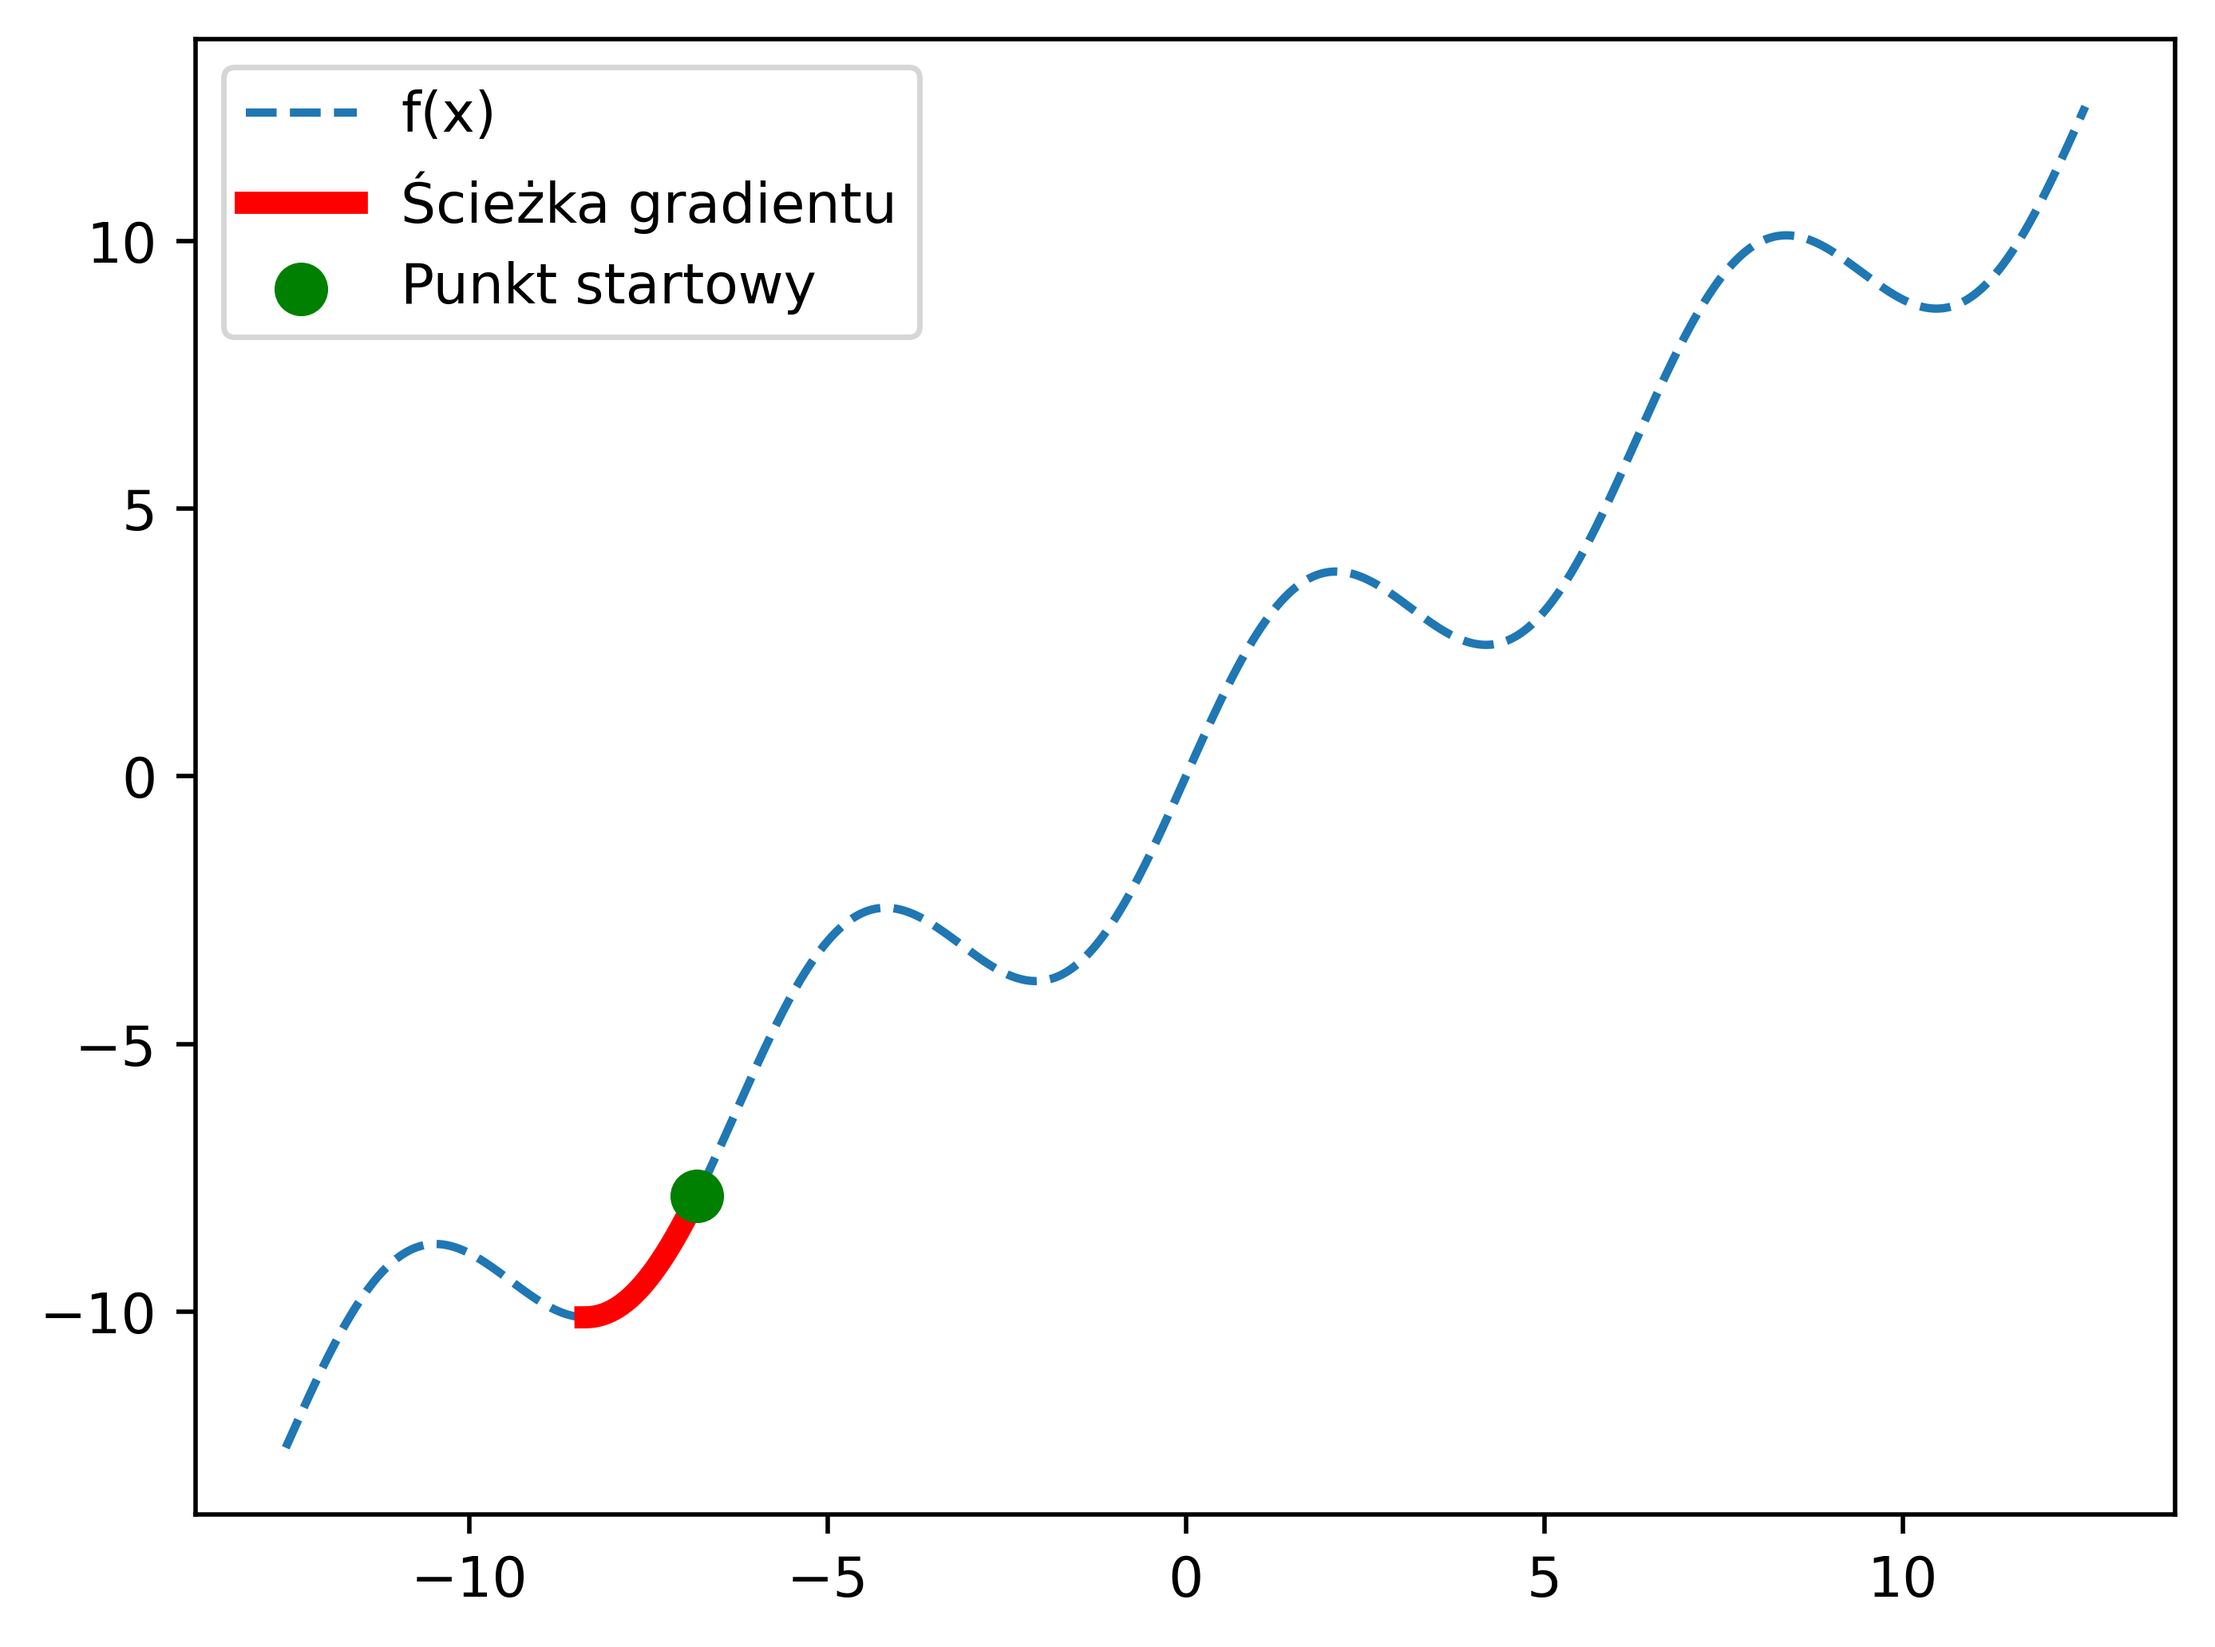
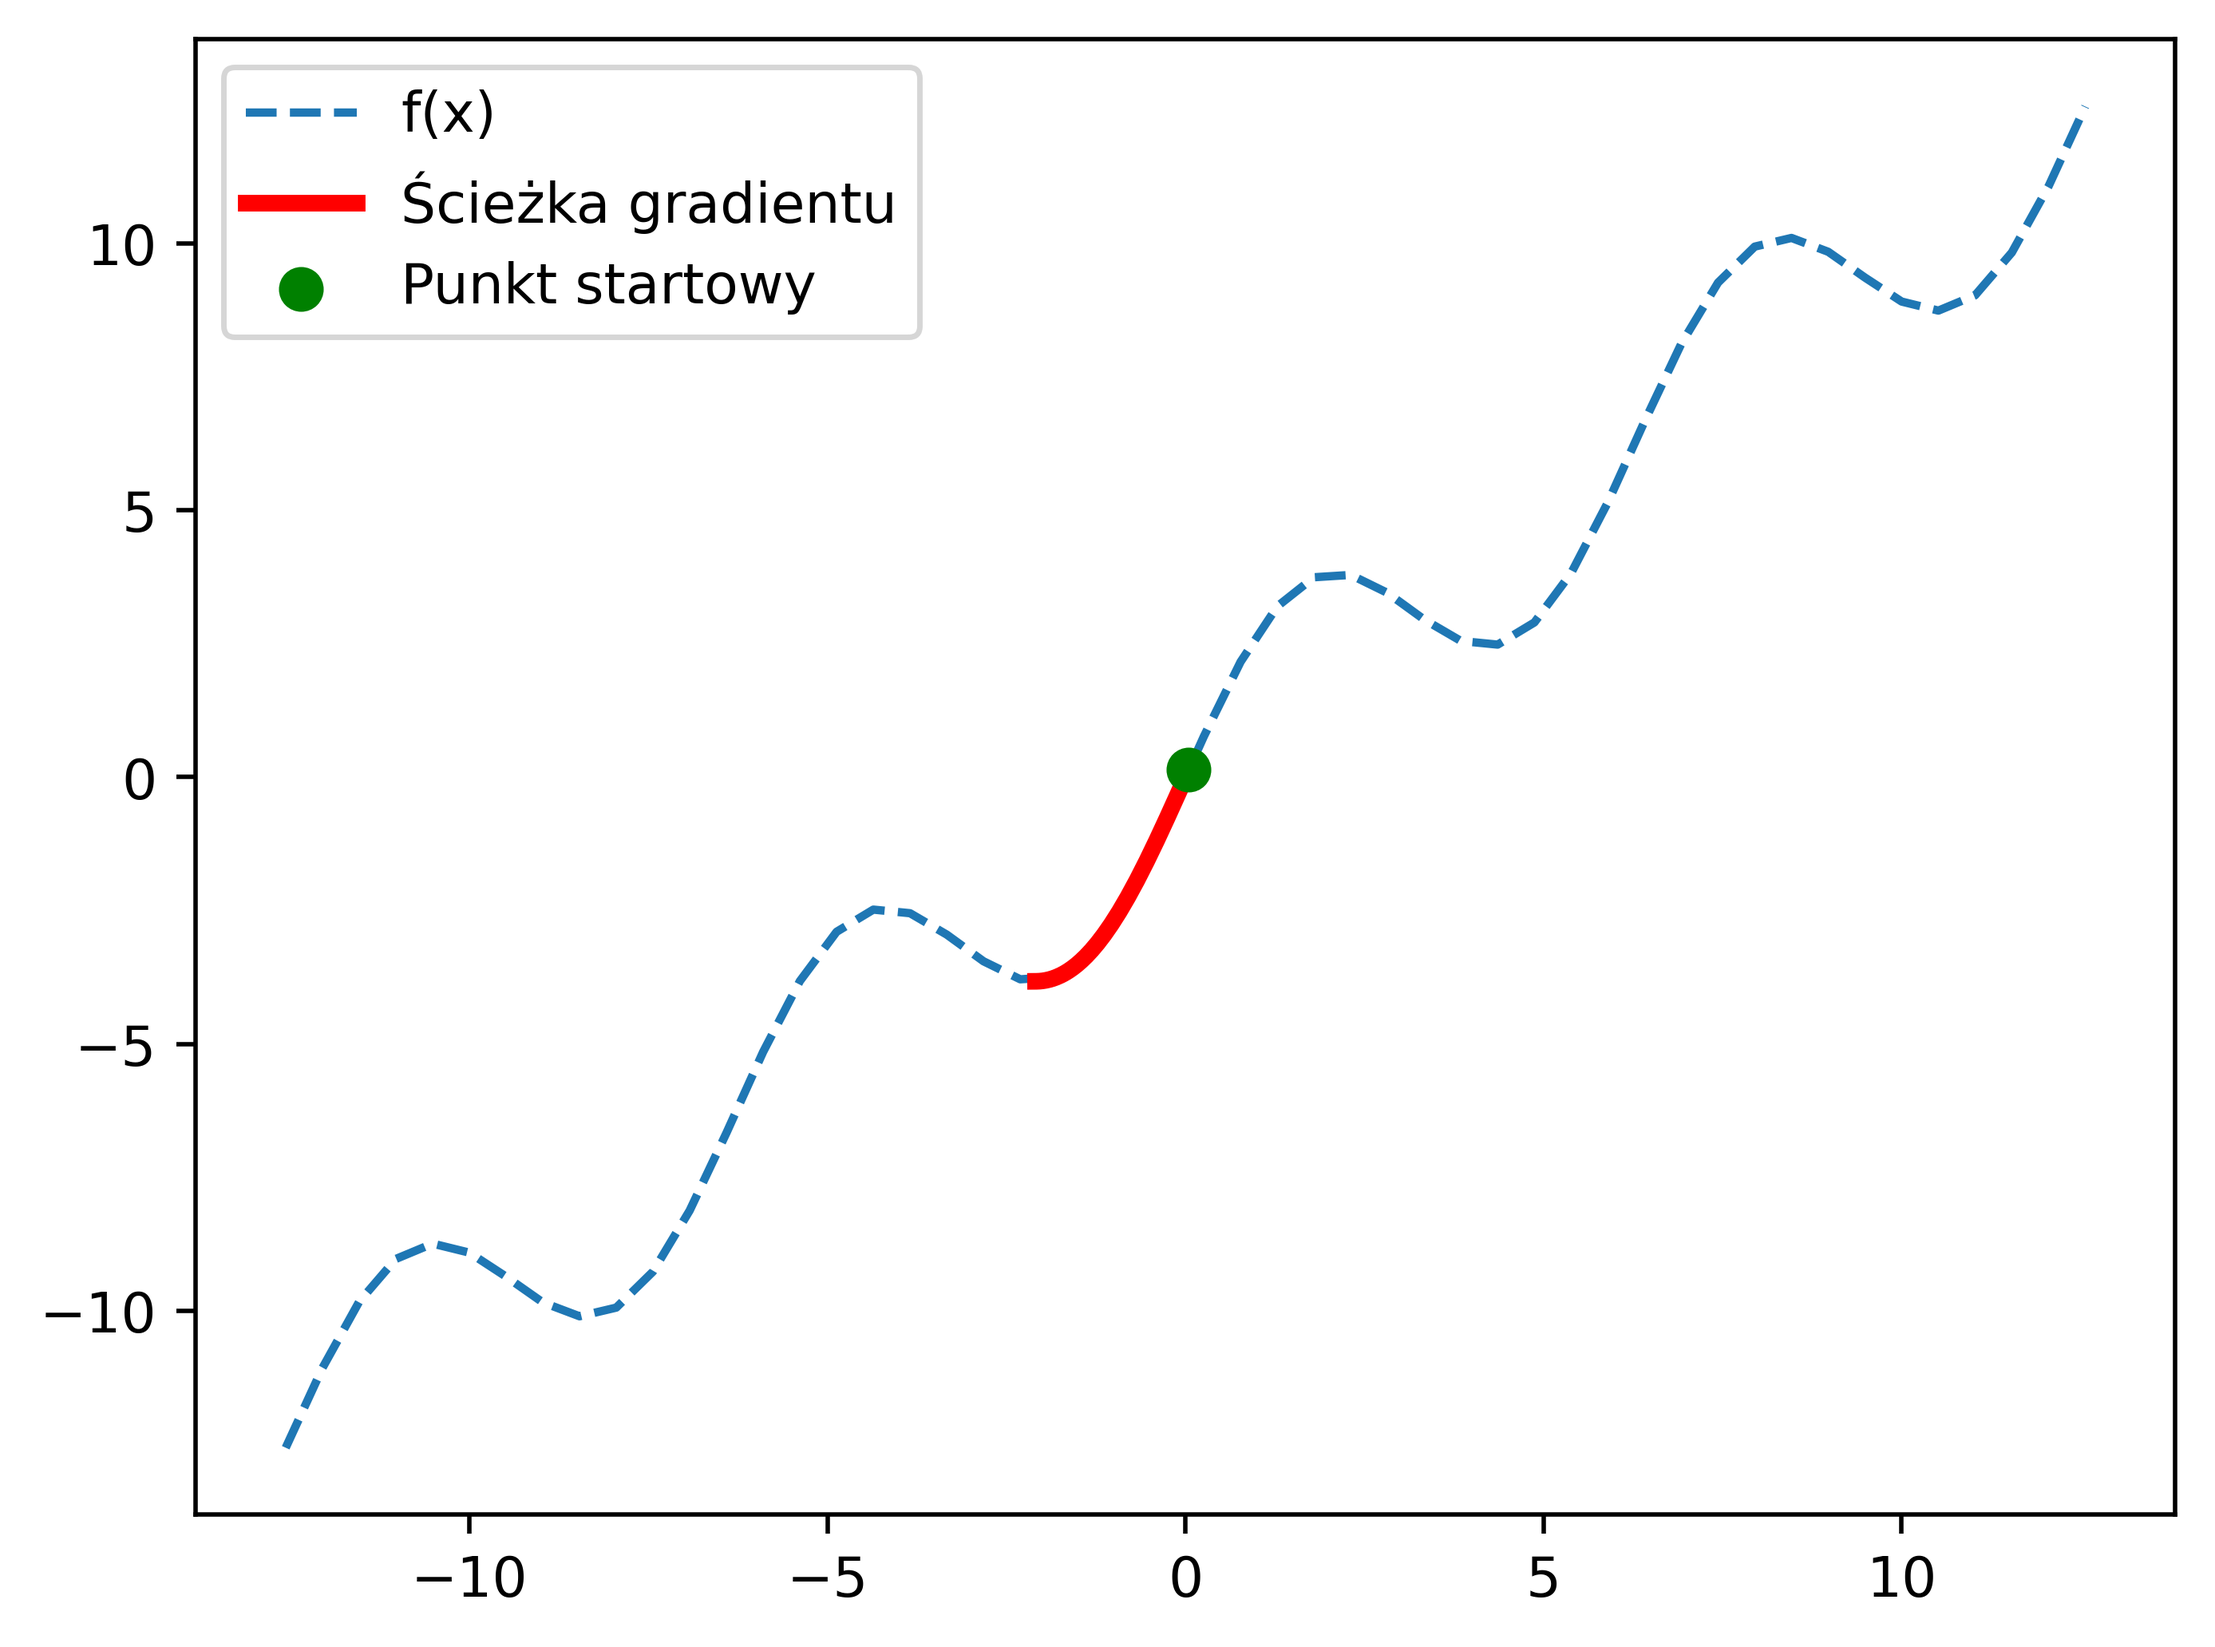
miscellaneous changes, mainly for better visibility and clarity

diff --git a/Zadanie1/gradient.py b/Zadanie1/gradient.py
@@ -33,7 +33,8 @@ def grad_descent(
 ):
     if find_min:
         learning_rate = -learning_rate
-        # domyślnie dążymy do minimum. Jeśli find_min = False, funkcja będzie dążyć do maksimum
+        # domyślnie dążymy do minimum (ponieważ algorytm to gradient descend).
+        # Jeśli find_min = False, funkcja będzie dążyć do maksimum
 
     path = [args]
 
@@ -43,7 +44,7 @@ def grad_descent(
             for i, variable in enumerate(args)
         ]
         # args - argumenty funkcji na których obecnie "jesteśmy"
-        # każdy z tych argumentów zmieniamy z osobna co każdy krok gradientu przesuwając się po wykresie
+        # każdy z tych argumentów zmieniamy z osobna co każdy krok gradientu "przesuwając się" po wykresie
 
         if all(domain[i][0] <= new_args[i] <= domain[i][1] for i in range(len(domain))):
             args = new_args
@@ -60,7 +61,7 @@ def grad_descent(
 
 
 def two_dimensions_chart(function, domain, path):
-    x_values = [x / 100 for x in range(int(domain[0] * 100), int(domain[1] * 100))]
+    x_values = np.linspace(domain[0], domain[1])
     y_values = [function(x) for x in x_values]
     plt.plot(
         x_values,
@@ -75,12 +76,12 @@ def two_dimensions_chart(function, domain, path):
         path_x,
         path_y,
         color="red",
-        linewidth=4,
+        linewidth=3,
         label="Ścieżka gradientu",
     )
 
     plt.scatter(
-        path_x[0], f(path_x[0]), color="green", s=75, label="Punkt startowy", zorder=2
+        path_x[0], f(path_x[0]), color="green", s=50, label="Punkt startowy", zorder=2
     )
 
     plt.legend()
@@ -110,16 +111,15 @@ def three_dimensions_chart(function, domain, path):
         path_y,
         path_z,
         color="red",
-        linewidth=5,
+        linewidth=3,
         label="Ścieżka gradientu",
-        alpha=0.5,
     )
     ax.scatter3D(
         path_x[0],
         path_y[0],
         path_z[0],
         color="green",
-        s=75,
+        s=50,
         label="Punkt startowy",
         zorder=2,
     )
@@ -137,11 +137,16 @@ def three_dimensions_chart(function, domain, path):
 if __name__ == "__main__":
     random_x = random.uniform(-4 * math.pi, 4 * math.pi)
     args = grad_descent(
-        f, f_derivative, [(-4 * math.pi, 4 * math.pi)], 0.01, [random_x], 1000
+        f, f_derivative, [(-4 * math.pi, 4 * math.pi)], 0.05, [random_x], 1000
     )
-    print(args)
+    print("Funkcja f(x)")
+    print(f"\nPunkt startowy: x = {random_x}, y = {f(random_x)}")
+    print(f"Punkt końcowy: x = {args[0]}, y = {f(args[0])}")
 
     random_x = random.uniform(-2, 2)
     random_y = random.uniform(-2, 2)
     args = grad_descent(g, g_derivative, [(-2, 2), (-2, 2)], 0.01, [random_x, random_y])
-    print(args)
+    print(
+        f"\nPunkt startowy: x = {random_x}, y = {random_y}, z = {g(random_x, random_y)}"
+    )
+    print(f"Punkt końcowy: x = {args[0]}, y = {args[1]}, z = {g(args[0], args[1])}\n")
